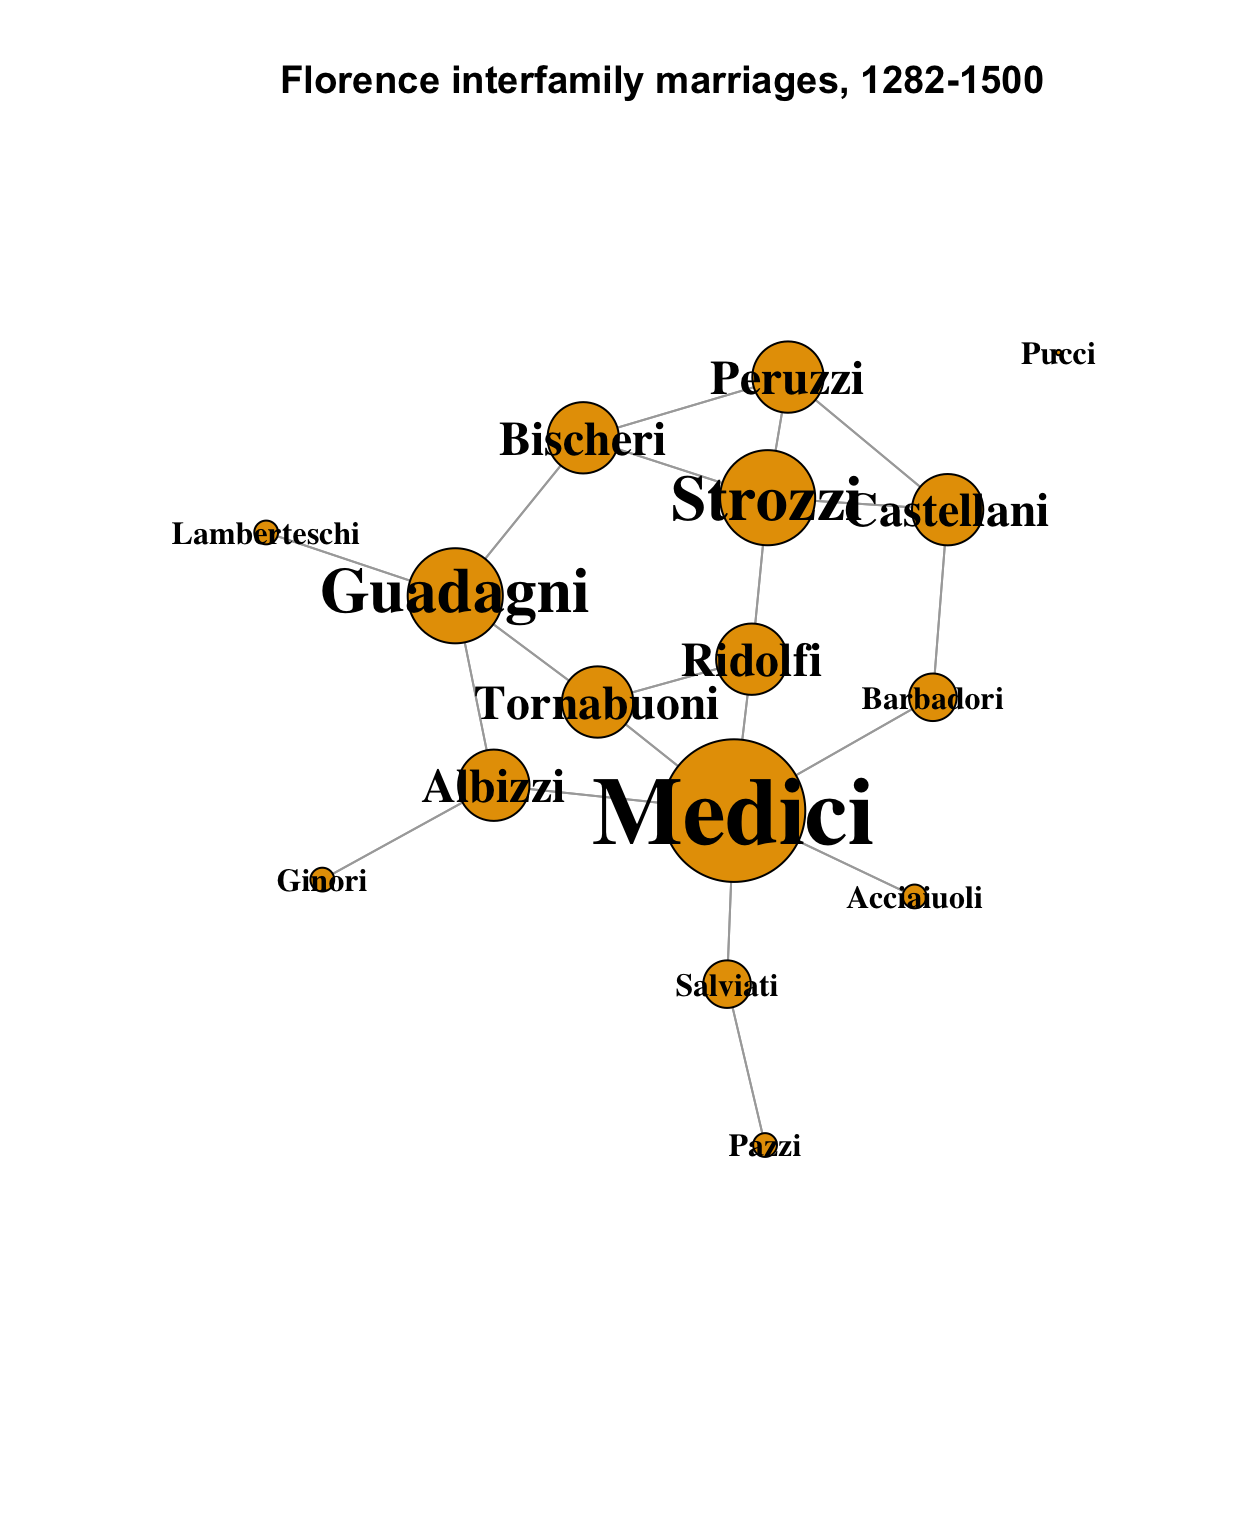
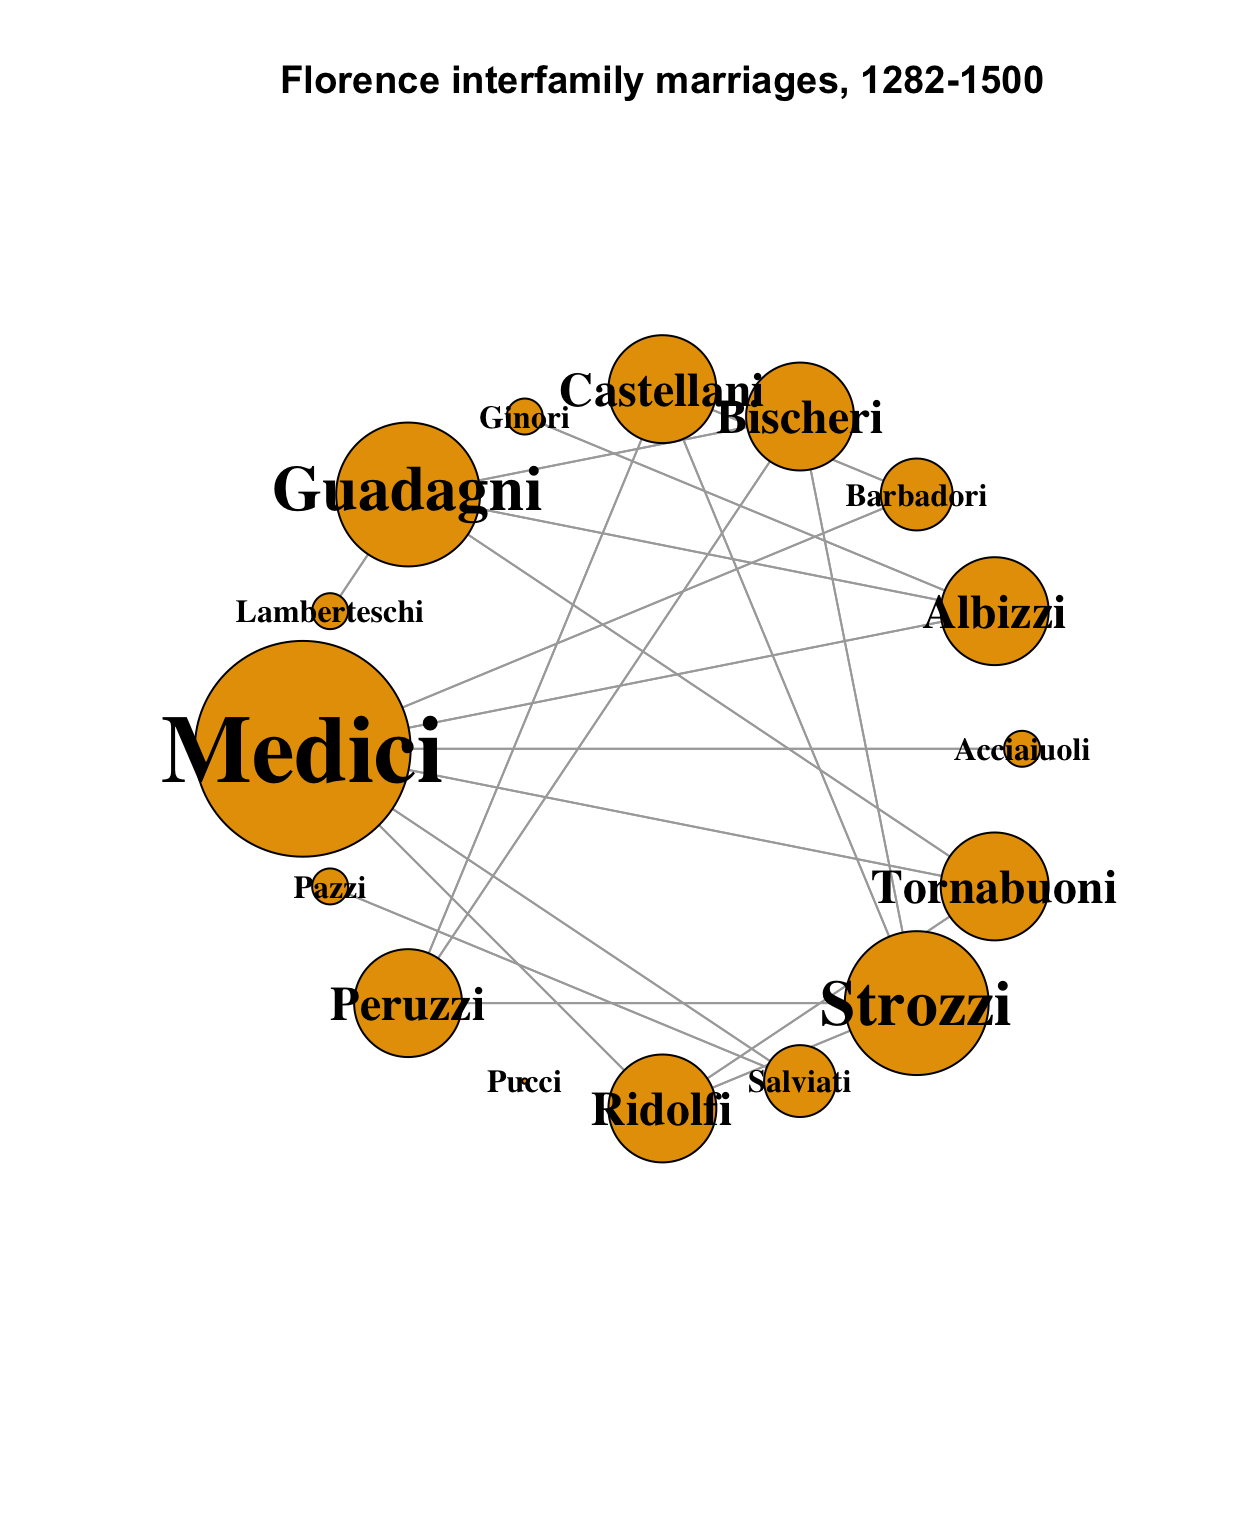
Add code fold options

diff --git a/_academics/ps753-hw3/ps753-hw3.html b/_academics/ps753-hw3/ps753-hw3.html
@@ -112,12 +112,12 @@ code span.wa { color: #5e5e5e; font-style: italic; } /* Warning */
   <!--radix_placeholder_rmarkdown_metadata-->
 
   <script type="text/json" id="radix-rmarkdown-metadata">
-  {"type":"list","attributes":{"names":{"type":"character","attributes":{},"value":["title","description","author","date","output","categories"]}},"value":[{"type":"character","attributes":{},"value":["Homework 3: The Florentine Wedding dataset"]},{"type":"character","attributes":{},"value":["A first-look network analysis\n"]},{"type":"list","attributes":{},"value":[{"type":"list","attributes":{"names":{"type":"character","attributes":{},"value":["name","url"]}},"value":[{"type":"character","attributes":{},"value":["Steve Linberg"]},{"type":"list","attributes":{"names":{"type":"character","attributes":{},"value":[]}},"value":[]}]}]},{"type":"character","attributes":{},"value":["2022-02-09"]},{"type":"list","attributes":{"names":{"type":"character","attributes":{},"value":["distill::distill_article"]}},"value":[{"type":"list","attributes":{"names":{"type":"character","attributes":{},"value":["self_contained"]}},"value":[{"type":"logical","attributes":{},"value":[false]}]}]},{"type":"character","attributes":{},"value":["r","social networks"]}]}
+  {"type":"list","attributes":{"names":{"type":"character","attributes":{},"value":["title","description","author","date","output","categories"]}},"value":[{"type":"character","attributes":{},"value":["Homework 3: The Florentine Wedding dataset"]},{"type":"character","attributes":{},"value":["A first-look network analysis\n"]},{"type":"list","attributes":{},"value":[{"type":"list","attributes":{"names":{"type":"character","attributes":{},"value":["name","url"]}},"value":[{"type":"character","attributes":{},"value":["Steve Linberg"]},{"type":"list","attributes":{"names":{"type":"character","attributes":{},"value":[]}},"value":[]}]}]},{"type":"character","attributes":{},"value":["2022-02-09"]},{"type":"list","attributes":{"names":{"type":"character","attributes":{},"value":["distill::distill_article"]}},"value":[{"type":"list","attributes":{"names":{"type":"character","attributes":{},"value":["self_contained","code_folding"]}},"value":[{"type":"logical","attributes":{},"value":[false]},{"type":"logical","attributes":{},"value":[true]}]}]},{"type":"character","attributes":{},"value":["r","social networks"]}]}
   </script>
   <!--/radix_placeholder_rmarkdown_metadata-->
   
   <script type="text/json" id="radix-resource-manifest">
-  {"type":"character","attributes":{},"value":["ps753-hw3_files/anchor-4.2.2/anchor.min.js","ps753-hw3_files/bowser-1.9.3/bowser.min.js","ps753-hw3_files/distill-2.2.21/template.v2.js","ps753-hw3_files/figure-html5/unnamed-chunk-2-1.png","ps753-hw3_files/figure-html5/unnamed-chunk-3-1.png","ps753-hw3_files/header-attrs-2.11/header-attrs.js","ps753-hw3_files/jquery-3.6.0/jquery-3.6.0.js","ps753-hw3_files/jquery-3.6.0/jquery-3.6.0.min.js","ps753-hw3_files/jquery-3.6.0/jquery-3.6.0.min.map","ps753-hw3_files/popper-2.6.0/popper.min.js","ps753-hw3_files/tippy-6.2.7/tippy-bundle.umd.min.js","ps753-hw3_files/tippy-6.2.7/tippy-light-border.css","ps753-hw3_files/tippy-6.2.7/tippy.css","ps753-hw3_files/tippy-6.2.7/tippy.umd.min.js","ps753-hw3_files/webcomponents-2.0.0/webcomponents.js"]}
+  {"type":"character","attributes":{},"value":["ps753-hw3_files/anchor-4.2.2/anchor.min.js","ps753-hw3_files/bowser-1.9.3/bowser.min.js","ps753-hw3_files/distill-2.2.21/template.v2.js","ps753-hw3_files/figure-html5/unnamed-chunk-2-1.png","ps753-hw3_files/figure-html5/unnamed-chunk-3-1.png","ps753-hw3_files/figure-html5/unnamed-chunk-4-1.png","ps753-hw3_files/header-attrs-2.11/header-attrs.js","ps753-hw3_files/jquery-3.6.0/jquery-3.6.0.js","ps753-hw3_files/jquery-3.6.0/jquery-3.6.0.min.js","ps753-hw3_files/jquery-3.6.0/jquery-3.6.0.min.map","ps753-hw3_files/popper-2.6.0/popper.min.js","ps753-hw3_files/tippy-6.2.7/tippy-bundle.umd.min.js","ps753-hw3_files/tippy-6.2.7/tippy-light-border.css","ps753-hw3_files/tippy-6.2.7/tippy.css","ps753-hw3_files/tippy-6.2.7/tippy.umd.min.js","ps753-hw3_files/webcomponents-2.0.0/webcomponents.js"]}
   </script>
   <!--radix_placeholder_navigation_in_header-->
   <!--/radix_placeholder_navigation_in_header-->
@@ -1489,12 +1489,74 @@ code span.wa { color: #5e5e5e; font-style: italic; } /* Warning */
 <p style="background: #eee">
 <a href="/"><i class="fas fa-home"></i></a> &gt; Academics &gt; <a href="../ps753/index.html">PS753</a> &gt; Homework 3: The Florentine Wedding dataset
 </p>
+<div class="layout-chunk" data-layout="l-body">
+<details>
+<summary>
+Show code
+</summary>
+<div class="sourceCode">
+<pre class="sourceCode r"><code class="sourceCode r"><span class='fu'><a href='https://rdrr.io/r/utils/data.html'>data</a></span><span class='op'>(</span><span class='va'>flo</span><span class='op'>)</span>
+<span class='va'>ntwk.ig</span> <span class='op'>&lt;-</span> <span class='fu'><a href='https://rdrr.io/pkg/igraph/man/graph_from_adjacency_matrix.html'>graph_from_adjacency_matrix</a></span><span class='op'>(</span><span class='va'>flo</span><span class='op'>)</span>
+
+<span class='va'>ntwk.vcount</span> <span class='op'>&lt;-</span> <span class='fu'><a href='https://rdrr.io/pkg/igraph/man/gorder.html'>vcount</a></span><span class='op'>(</span><span class='va'>ntwk.ig</span><span class='op'>)</span>
+<span class='va'>ntwk.ecount</span> <span class='op'>&lt;-</span> <span class='fu'><a href='https://rdrr.io/pkg/igraph/man/gsize.html'>ecount</a></span><span class='op'>(</span><span class='va'>ntwk.ig</span><span class='op'>)</span>
+<span class='va'>ntwk.is_bipartite</span> <span class='op'>&lt;-</span> <span class='fu'><a href='https://rdrr.io/pkg/igraph/man/make_bipartite_graph.html'>is_bipartite</a></span><span class='op'>(</span><span class='va'>ntwk.ig</span><span class='op'>)</span>
+<span class='va'>ntwk.is_directed</span> <span class='op'>&lt;-</span> <span class='fu'><a href='https://rdrr.io/pkg/igraph/man/is_directed.html'>is_directed</a></span><span class='op'>(</span><span class='va'>ntwk.ig</span><span class='op'>)</span>
+<span class='va'>ntwk.is_weighted</span> <span class='op'>&lt;-</span> <span class='fu'><a href='https://rdrr.io/pkg/igraph/man/is_weighted.html'>is_weighted</a></span><span class='op'>(</span><span class='va'>ntwk.ig</span><span class='op'>)</span>
+<span class='va'>ntwk.vertex_attr_names</span> <span class='op'>&lt;-</span> <span class='fu'><a href='https://rdrr.io/pkg/igraph/man/vertex_attr_names.html'>vertex_attr_names</a></span><span class='op'>(</span><span class='va'>ntwk.ig</span><span class='op'>)</span>
+<span class='va'>ntwk.edge_attr_names</span> <span class='op'>&lt;-</span> <span class='fu'><a href='https://rdrr.io/pkg/igraph/man/edge_attr_names.html'>edge_attr_names</a></span><span class='op'>(</span><span class='va'>ntwk.ig</span><span class='op'>)</span>
+<span class='va'>ntwk.names</span> <span class='op'>&lt;-</span> <span class='fu'><a href='https://rdrr.io/pkg/igraph/man/V.html'>V</a></span><span class='op'>(</span><span class='va'>ntwk.ig</span><span class='op'>)</span><span class='op'>$</span><span class='va'>name</span>
+<span class='va'>ntwk.dyad_census</span> <span class='op'>&lt;-</span> <span class='fu'>igraph</span><span class='fu'>::</span><span class='fu'><a href='https://rdrr.io/pkg/igraph/man/dyad_census.html'>dyad.census</a></span><span class='op'>(</span><span class='va'>ntwk.ig</span><span class='op'>)</span>
+<span class='va'>ntwk.triad_census</span> <span class='op'>&lt;-</span> <span class='fu'>igraph</span><span class='fu'>::</span><span class='fu'><a href='https://rdrr.io/pkg/igraph/man/triad_census.html'>triad_census</a></span><span class='op'>(</span><span class='va'>ntwk.ig</span><span class='op'>)</span>
+<span class='va'>ntwk.global_clustering_coef</span> <span class='op'>&lt;-</span> <span class='fu'><a href='https://rdrr.io/pkg/igraph/man/transitivity.html'>transitivity</a></span><span class='op'>(</span><span class='va'>ntwk.ig</span>, type <span class='op'>=</span> <span class='st'>"global"</span><span class='op'>)</span>
+<span class='va'>ntwk.local_avg_clustering_coef</span> <span class='op'>&lt;-</span> <span class='fu'><a href='https://rdrr.io/pkg/igraph/man/transitivity.html'>transitivity</a></span><span class='op'>(</span><span class='va'>ntwk.ig</span>, type <span class='op'>=</span> <span class='st'>"average"</span><span class='op'>)</span>
+<span class='va'>ntwk.avg_path_length</span> <span class='op'>&lt;-</span> <span class='fu'><a href='https://rdrr.io/pkg/igraph/man/distances.html'>average.path.length</a></span><span class='op'>(</span><span class='va'>ntwk.ig</span>, directed <span class='op'>=</span> <span class='cn'>T</span><span class='op'>)</span>
+<span class='va'>ntwk.component_names</span> <span class='op'>&lt;-</span> <span class='fu'><a href='https://rdrr.io/r/base/names.html'>names</a></span><span class='op'>(</span><span class='fu'>igraph</span><span class='fu'>::</span><span class='fu'><a href='https://rdrr.io/pkg/igraph/man/components.html'>components</a></span><span class='op'>(</span><span class='va'>ntwk.ig</span><span class='op'>)</span><span class='op'>)</span>
+<span class='va'>ntwk.components_no</span> <span class='op'>&lt;-</span> <span class='fu'>igraph</span><span class='fu'>::</span><span class='fu'><a href='https://rdrr.io/pkg/igraph/man/components.html'>components</a></span><span class='op'>(</span><span class='va'>ntwk.ig</span><span class='op'>)</span><span class='op'>$</span><span class='va'>no</span>
+<span class='va'>ntwk.components_csize</span> <span class='op'>&lt;-</span> <span class='fu'>igraph</span><span class='fu'>::</span><span class='fu'><a href='https://rdrr.io/pkg/igraph/man/components.html'>components</a></span><span class='op'>(</span><span class='va'>ntwk.ig</span><span class='op'>)</span><span class='op'>$</span><span class='va'>csize</span>
+
+<span class='co'># distances(ntwk.ig,"Acciaiuoli","Strozzi", weights=NA)</span>
+
+<span class='va'>ntwk.graph_density</span> <span class='op'>&lt;-</span> <span class='fu'><a href='https://rdrr.io/pkg/igraph/man/edge_density.html'>graph.density</a></span><span class='op'>(</span><span class='va'>ntwk.ig</span><span class='op'>)</span>
+<span class='va'>ntwk.graph_density_noloops</span> <span class='op'>&lt;-</span> <span class='fu'><a href='https://rdrr.io/pkg/igraph/man/edge_density.html'>graph.density</a></span><span class='op'>(</span><span class='va'>ntwk.ig</span>, loops <span class='op'>=</span> <span class='cn'>TRUE</span><span class='op'>)</span>
+
+<span class='va'>ntwk.avg_degree</span> <span class='op'>&lt;-</span> <span class='fu'>igraph</span><span class='fu'>::</span><span class='fu'><a href='https://rdrr.io/pkg/igraph/man/degree.html'>degree</a></span><span class='op'>(</span><span class='va'>ntwk.ig</span><span class='op'>)</span>
+
+<span class='co'># Get the degree info and make the data frame</span>
+
+<span class='va'>ntwk.nodes</span> <span class='op'>&lt;-</span> <span class='fu'><a href='https://rdrr.io/r/base/data.frame.html'>data.frame</a></span><span class='op'>(</span>
+  name <span class='op'>=</span> <span class='fu'><a href='https://rdrr.io/pkg/igraph/man/V.html'>V</a></span><span class='op'>(</span><span class='va'>ntwk.ig</span><span class='op'>)</span><span class='op'>$</span><span class='va'>name</span>, 
+  degree <span class='op'>=</span> <span class='fu'>igraph</span><span class='fu'>::</span><span class='fu'><a href='https://rdrr.io/pkg/igraph/man/degree.html'>degree</a></span><span class='op'>(</span><span class='va'>ntwk.ig</span><span class='op'>)</span>,
+  indegrees <span class='op'>=</span> <span class='fu'>igraph</span><span class='fu'>::</span><span class='fu'><a href='https://rdrr.io/pkg/igraph/man/degree.html'>degree</a></span><span class='op'>(</span><span class='va'>ntwk.ig</span>, mode <span class='op'>=</span> <span class='st'>"in"</span>, loops <span class='op'>=</span> <span class='cn'>FALSE</span><span class='op'>)</span>,
+  outdegrees <span class='op'>=</span> <span class='fu'>igraph</span><span class='fu'>::</span><span class='fu'><a href='https://rdrr.io/pkg/igraph/man/degree.html'>degree</a></span><span class='op'>(</span><span class='va'>ntwk.ig</span>, mode <span class='op'>=</span> <span class='st'>"out"</span>, loops <span class='op'>=</span> <span class='cn'>FALSE</span><span class='op'>)</span>
+  <span class='op'>)</span>
+<span class='co'># ntwk.nodes[ntwk.nodes$name %in% c("Medici", "Strozzi"),]</span>
+
+<span class='co'># Get degree centralization</span>
+
+<span class='va'>ntwk.indegree_centralization</span> <span class='op'>&lt;-</span> <span class='fu'><a href='https://rdrr.io/pkg/igraph/man/centr_degree.html'>centr_degree</a></span><span class='op'>(</span><span class='va'>ntwk.ig</span>, loops <span class='op'>=</span> <span class='cn'>FALSE</span>, mode <span class='op'>=</span> <span class='st'>"in"</span><span class='op'>)</span><span class='op'>$</span><span class='va'>centralization</span>
+<span class='va'>ntwk.outdegree_centralization</span> <span class='op'>&lt;-</span> <span class='fu'><a href='https://rdrr.io/pkg/igraph/man/centr_degree.html'>centr_degree</a></span><span class='op'>(</span><span class='va'>ntwk.ig</span>, loops <span class='op'>=</span> <span class='cn'>FALSE</span>, mode <span class='op'>=</span> <span class='st'>"out"</span><span class='op'>)</span><span class='op'>$</span><span class='va'>centralization</span>
+<span class='va'>ntwk.total_centralization</span> <span class='op'>&lt;-</span> <span class='fu'><a href='https://rdrr.io/pkg/igraph/man/centr_degree.html'>centr_degree</a></span><span class='op'>(</span><span class='va'>ntwk.ig</span>, loops <span class='op'>=</span> <span class='cn'>FALSE</span>, mode <span class='op'>=</span> <span class='st'>"total"</span><span class='op'>)</span><span class='op'>$</span><span class='va'>centralization</span>
+</code></pre>
+</div>
+</details>
+</div>
+</details>
 <p>For this assignment, I am looking at the Florentine Wedding dataset by J. F. Padgett, representing intermarriages between prominent families in Florence between 1282 and 1500. This is an area of interest to me as I have some background in fine art, and the Medici family in particular was known for its patronage of some of history’s greatest artists throughout the Renaissance, including Boticelli, Leonardo da Vinci, and Michelangelo. No less than Galileo Galilei himself tutored several generations of Medici children.</p>
 <p>The great families of this era were frequently fierce rivals, with delicately balanced power structures measured in various spheres of influence; intermarriages were one way that alliances were forged between families in the ceaseless effort to gain political or financial advantage over their competitors.</p>
 <p>The Medici family was the most prominent in Florence throughout the renaissance. Two other prominent families, the Strozzi and Guadagni, also exercised considerable influence (they were all banking families), and did not intermarry with the Medici, though they were not far removed. This essay looks at the marriage network between the various families as one measure of social power and centrality in Renaissance Florence.</p>
 <p>The <code>flo</code> dataset in the R <code>network</code> library is an adjacency matrix of 16 families of this era, including the aforementioned. It contains the 16 nodes of the families, and 20 unweighted, directed edges between them. The Pucci family is an isolate, making the network disconnected; the remaining nodes form a single component.</p>
 <p>The families in the dataset, with their total intermarriage count (<code>degree</code>), marriages into each family (<code>indegrees</code>) and marriages out to other families (<code>outdegrees</code>) are:</p>
 <div class="layout-chunk" data-layout="l-body">
+<details>
+<summary>
+Show code
+</summary>
+<div class="sourceCode">
+<pre class="sourceCode r"><code class="sourceCode r"><span class='va'>ntwk.nodes</span><span class='op'>[</span>,<span class='fu'><a href='https://rdrr.io/r/base/c.html'>c</a></span><span class='op'>(</span><span class='st'>"degree"</span>, <span class='st'>"indegrees"</span>, <span class='st'>"outdegrees"</span><span class='op'>)</span><span class='op'>]</span>
+</code></pre>
+</div>
+</details>
 <pre><code>             degree indegrees outdegrees
 Acciaiuoli        2         1          1
 Albizzi           6         3          3
@@ -1515,12 +1577,36 @@ Tornabuoni        6         3          3</code></pre>
 </div>
 <p>A visualization shows each marriage as a line connecting two families:</p>
 <div class="layout-chunk" data-layout="l-body">
-<p><img src="ps753-hw3_files/figure-html5/unnamed-chunk-2-1.png" width="624" /></p>
+<details>
+<summary>
+Show code
+</summary>
+<div class="sourceCode">
+<pre class="sourceCode r"><code class="sourceCode r"><span class='fu'><a href='https://rdrr.io/pkg/igraph/man/V.html'>V</a></span><span class='op'>(</span><span class='va'>ntwk.ig</span><span class='op'>)</span><span class='op'>$</span><span class='va'>size</span> <span class='op'>&lt;-</span> <span class='va'>ntwk.nodes</span><span class='op'>[</span>,<span class='st'>"degree"</span><span class='op'>]</span> <span class='op'>*</span> <span class='fl'>5</span>
+<span class='fu'><a href='https://rdrr.io/pkg/igraph/man/V.html'>V</a></span><span class='op'>(</span><span class='va'>ntwk.ig</span><span class='op'>)</span><span class='op'>$</span><span class='va'>label.cex</span> <span class='op'>&lt;-</span> <span class='va'>ntwk.nodes</span><span class='op'>[</span>,<span class='st'>"degree"</span><span class='op'>]</span> <span class='op'>/</span> <span class='fl'>4</span>
+<span class='fu'><a href='https://rdrr.io/pkg/igraph/man/V.html'>V</a></span><span class='op'>(</span><span class='va'>ntwk.ig</span><span class='op'>)</span><span class='op'>$</span><span class='va'>label.cex</span> <span class='op'>&lt;-</span> <span class='fu'><a href='https://rdrr.io/r/base/Extremes.html'>pmax</a></span><span class='op'>(</span><span class='fu'><a href='https://rdrr.io/pkg/igraph/man/V.html'>V</a></span><span class='op'>(</span><span class='va'>ntwk.ig</span><span class='op'>)</span><span class='op'>$</span><span class='va'>label.cex</span>, <span class='fl'>1</span><span class='op'>)</span>
+
+<span class='fu'><a href='https://rdrr.io/r/graphics/plot.default.html'>plot</a></span><span class='op'>(</span><span class='va'>ntwk.ig</span>, layout <span class='op'>=</span> <span class='fu'><a href='https://rdrr.io/pkg/igraph/man/layout_in_circle.html'>layout_in_circle</a></span><span class='op'>(</span><span class='va'>ntwk.ig</span><span class='op'>)</span>, edge.arrow.mode <span class='op'>=</span> <span class='fl'>0</span>, vertex.label.color<span class='op'>=</span><span class='st'>"black"</span>, vertex.shape <span class='op'>=</span> <span class='st'>"circle"</span>, vertex.label.font <span class='op'>=</span> <span class='fl'>2</span>, main <span class='op'>=</span> <span class='st'>"Florence interfamily marriages, 1282-1500"</span><span class='op'>)</span>
+</code></pre>
+</div>
+</details>
+<p><img src="ps753-hw3_files/figure-html5/unnamed-chunk-3-1.png" width="624" /></p>
 </div>
 <p>Each node is sized according to its number of connections; it is easy to see from this diagram that the Medici family had the most marriages within the Florence family network, with six. The Strozzi and Guadagni families were next at four apiece.</p>
 <p>A component layout offers a different view that makes distances and paths easier to read:</p>
 <div class="layout-chunk" data-layout="l-body">
-<p><img src="ps753-hw3_files/figure-html5/unnamed-chunk-3-1.png" width="624" /></p>
+<details>
+<summary>
+Show code
+</summary>
+<div class="sourceCode">
+<pre class="sourceCode r"><code class="sourceCode r"><span class='fu'><a href='https://rdrr.io/r/base/Random.html'>set.seed</a></span><span class='op'>(</span><span class='fl'>1235</span><span class='op'>)</span>
+<span class='fu'><a href='https://rdrr.io/pkg/igraph/man/V.html'>V</a></span><span class='op'>(</span><span class='va'>ntwk.ig</span><span class='op'>)</span><span class='op'>$</span><span class='va'>size</span> <span class='op'>&lt;-</span> <span class='va'>ntwk.nodes</span><span class='op'>[</span>,<span class='st'>"degree"</span><span class='op'>]</span> <span class='op'>*</span> <span class='fl'>3</span>
+<span class='fu'><a href='https://rdrr.io/r/graphics/plot.default.html'>plot</a></span><span class='op'>(</span><span class='va'>ntwk.ig</span>, layout <span class='op'>=</span> <span class='fu'><a href='https://rdrr.io/pkg/igraph/man/merge_coords.html'>layout_components</a></span><span class='op'>(</span><span class='va'>ntwk.ig</span><span class='op'>)</span>, edge.arrow.mode <span class='op'>=</span> <span class='fl'>0</span>, vertex.label.color<span class='op'>=</span><span class='st'>"black"</span>, vertex.shape <span class='op'>=</span> <span class='st'>"circle"</span>, vertex.label.font <span class='op'>=</span> <span class='fl'>2</span>, main <span class='op'>=</span> <span class='st'>"Florence interfamily marriages, 1282-1500"</span><span class='op'>)</span>
+</code></pre>
+</div>
+</details>
+<p><img src="ps753-hw3_files/figure-html5/unnamed-chunk-4-1.png" width="624" /></p>
 </div>
 <p>From this layout, we can see that the Medici, Strozzi and Guadagni never directly intermarried, but were also only separated from each other by one node. With an overall average path length of approximately 2.5, this suggests some calculus and deliberation: not directly joining with their main rivals, but remaining only one degree removed.</p>
 <p>The overall network density is <span class="math inline">\(\approx\)</span> 0.16; 20 connections by marriage out of a possible total of 120. Four of the 16 nodes are pendants. We might expect the network density to increase if we looked at more families than the 16 listed here; it is very unlikely that only 16% of families experienced any marriages at all! This would need to be weighed against the prominence of the additional families according to the criteria with which this initial set was selected.</p>
